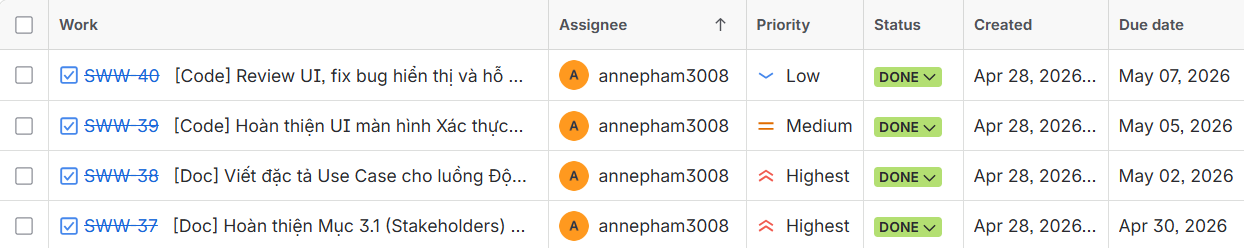
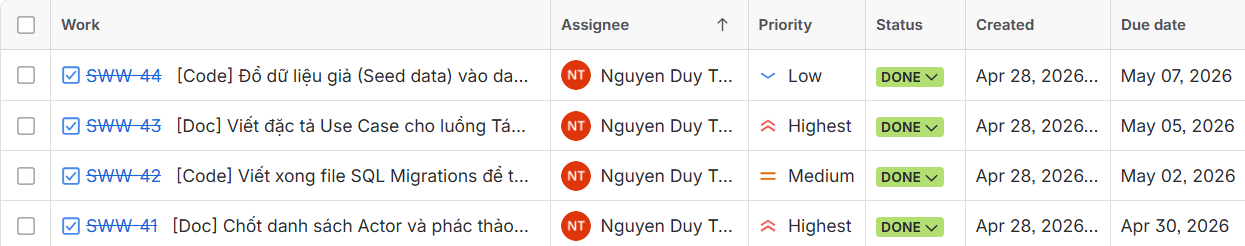
docs: add requirement documentation and supporting task images

diff --git a/docs/requirements/Requirement.md b/docs/requirements/Requirement.md
@@ -480,4 +480,4 @@ Video thuyết trình: https://youtu.be/2hARxf5t9Cc
 *   **Đặc tả Use Case (Section 4.2):** Giúp các thành viên hiểu sâu về luồng xử lý của hệ thống, đặc biệt là các kịch bản lỗi (Alternative Scenarios). Điều này cực kỳ hữu ích cho đội ngũ Code để thiết kế Database và API chính xác ngay từ đầu.
 
 ### 7.2 Unnecessary/Tedious sections
-*   **Định dạng Markdown cho bảng biểu:** Việc kẻ bảng và căn chỉnh nội dung trong file Markdown khá tốn thời gian và dễ xảy ra lỗi định dạng khi số lượng Use Case tăng lên (hơn 10 Use Cases).
+Không có.
